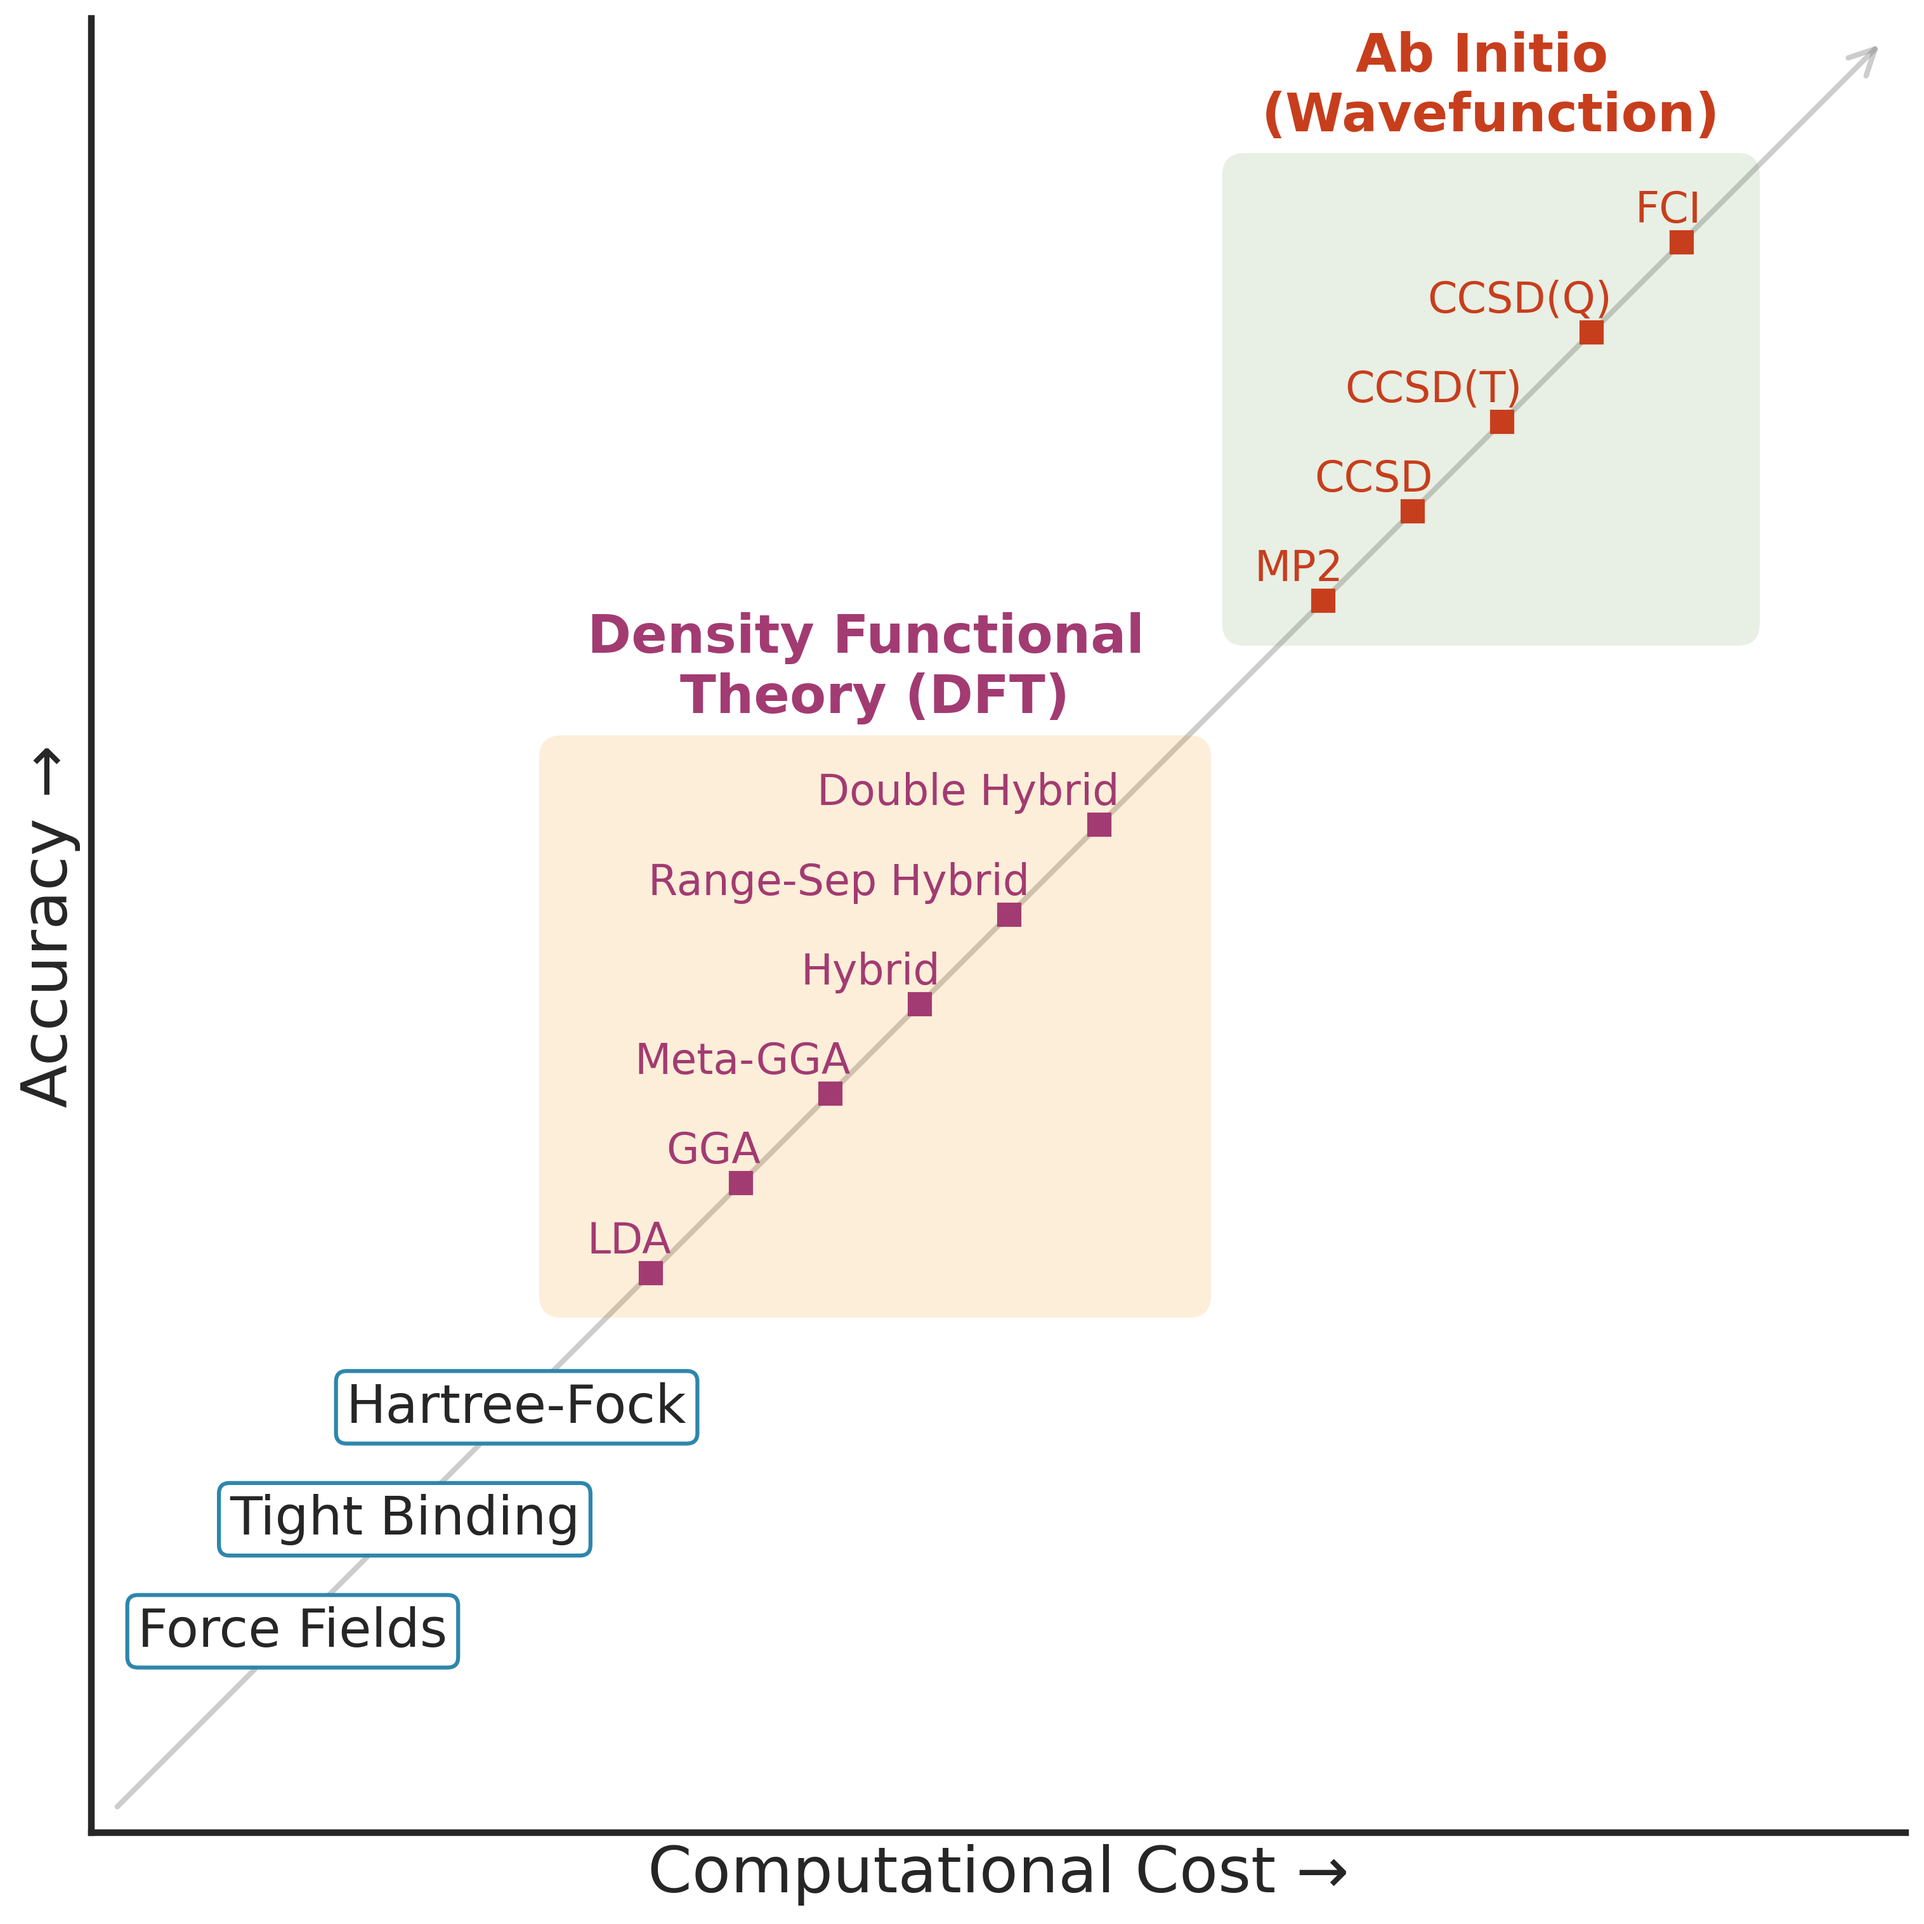
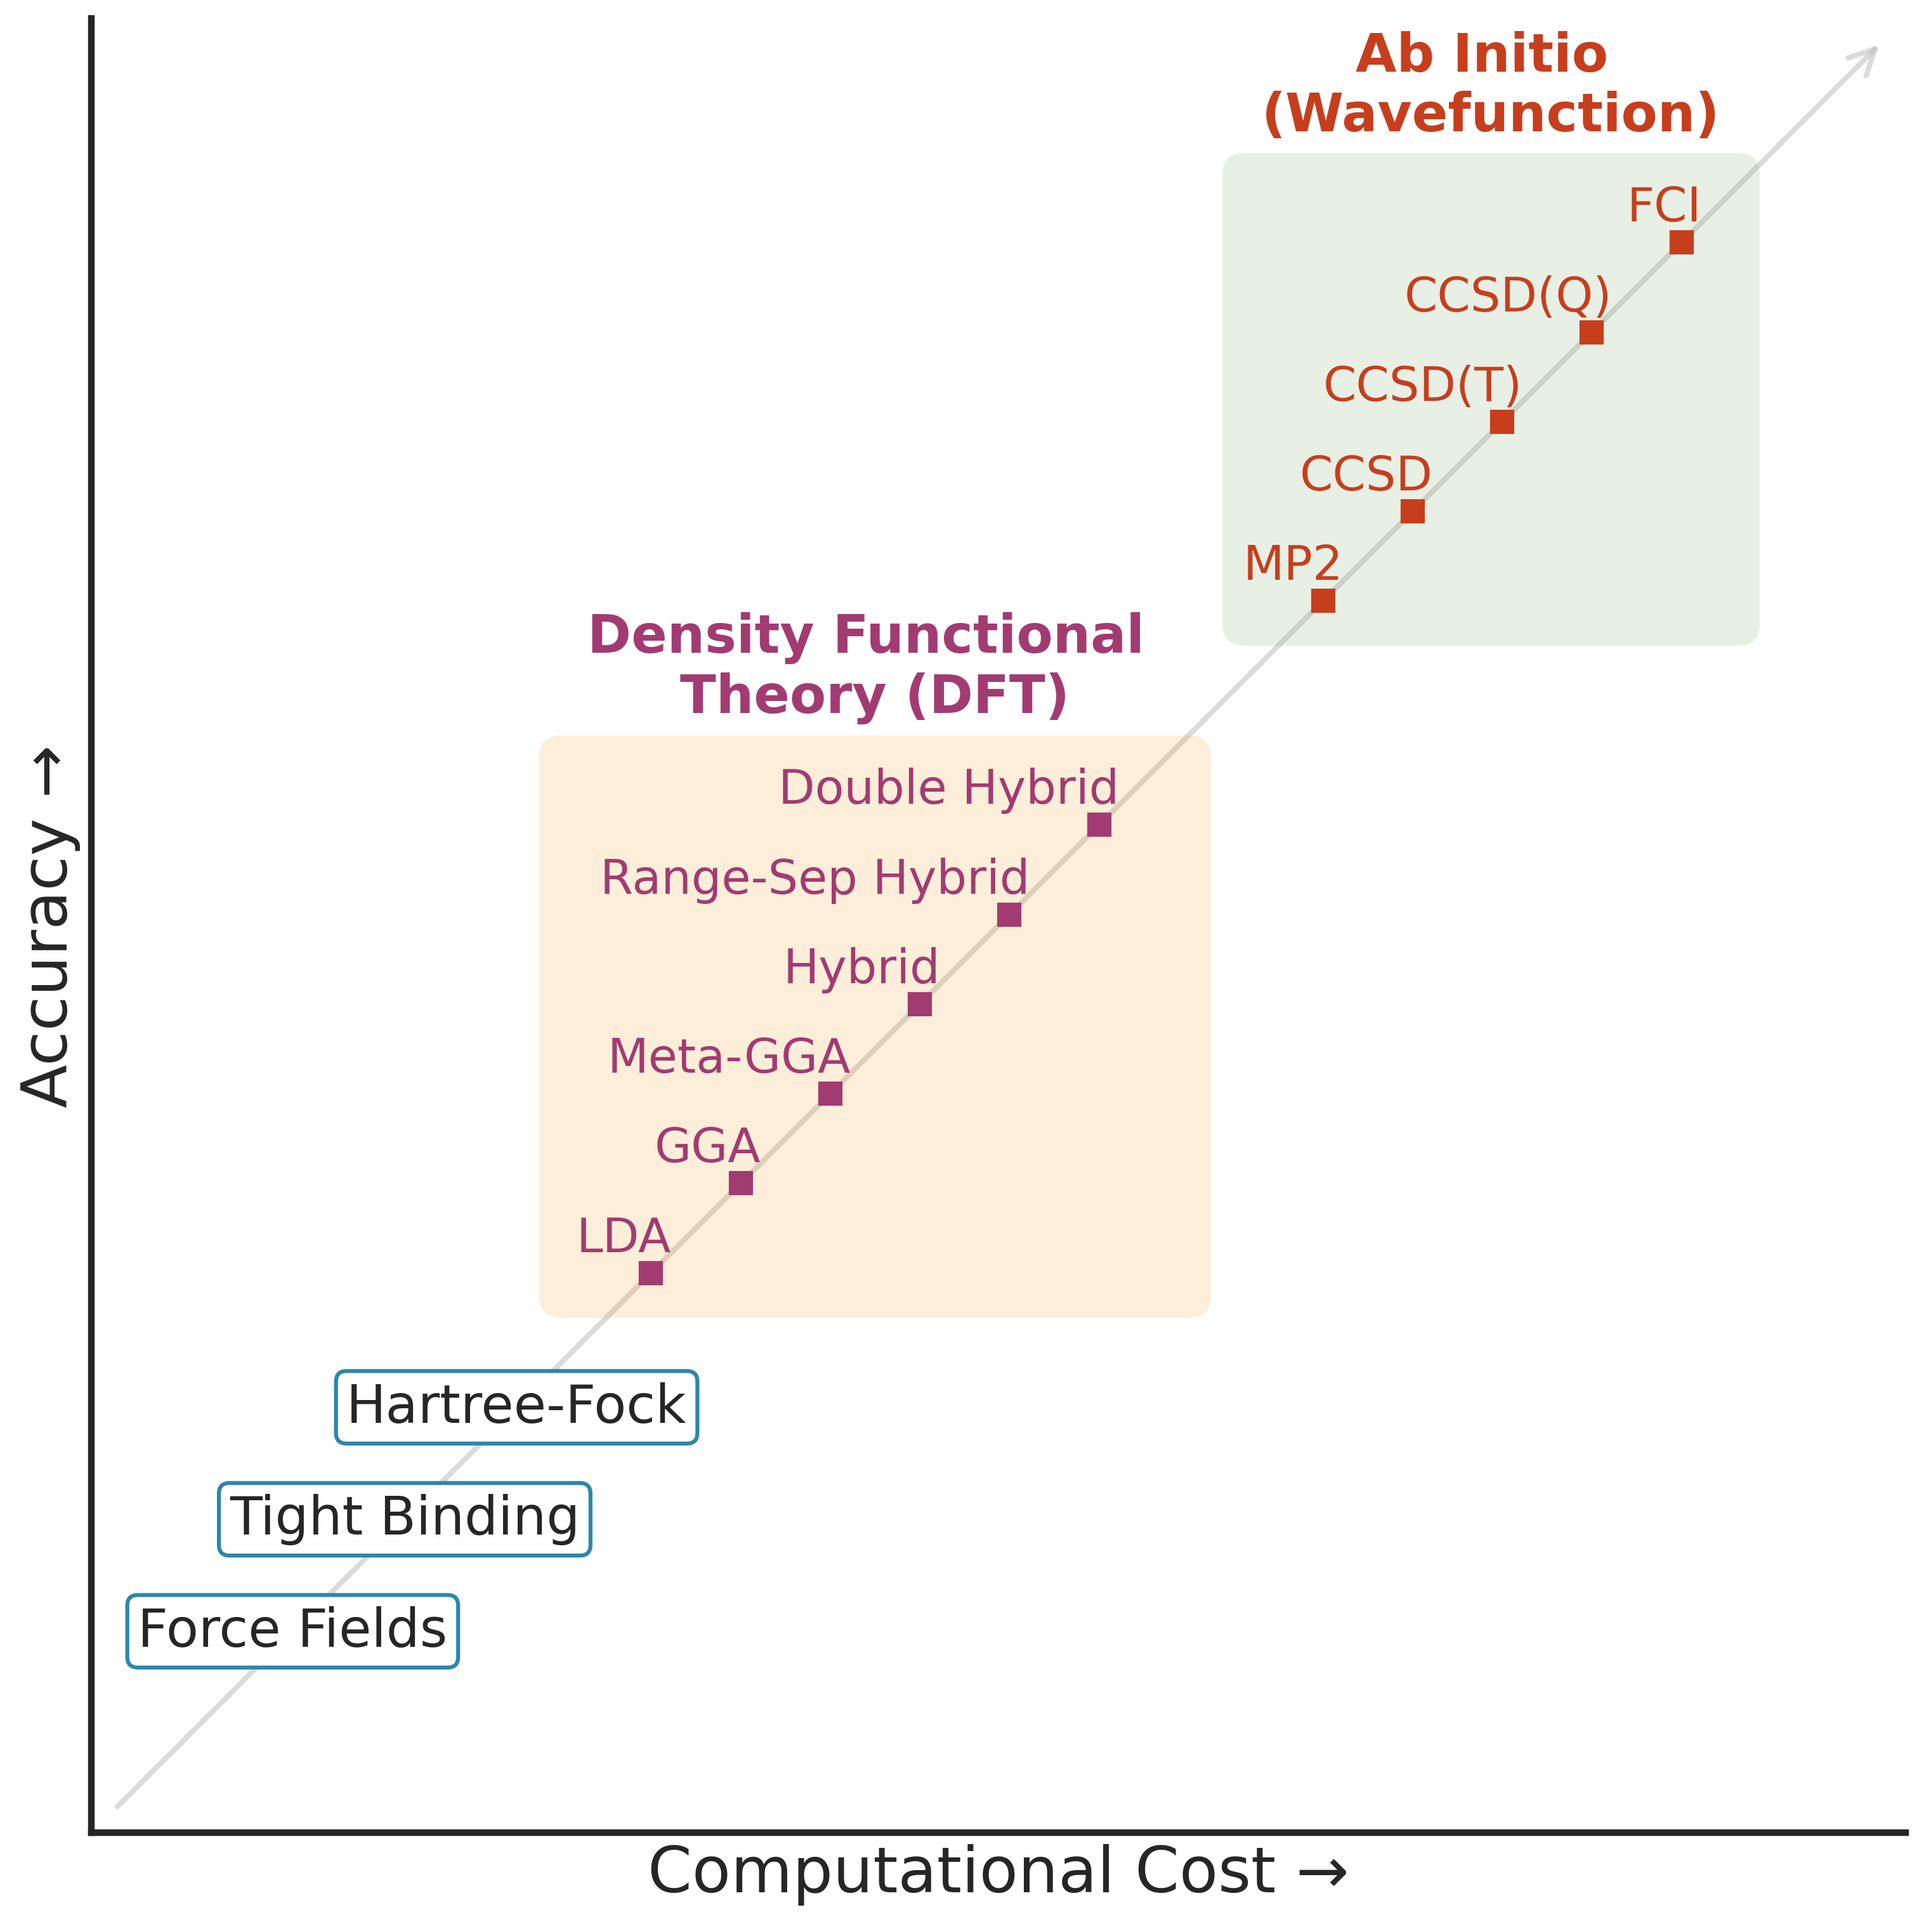
figure

diff --git a/scripts/figure_tradeoff.py b/scripts/figure_tradeoff.py
@@ -1,12 +1,12 @@
 import matplotlib.pyplot as plt
 import matplotlib.patches as patches
-from matplotlib.patches import FancyBboxPatch
+from matplotlib.patches import FancyBboxPatch, FancyArrowPatch
 import numpy as np
 import seaborn as sns
 
 
 BOX_LABEL_FONT_SIZE = 20
-BOX_CONTENT_FONT_SIZE = 16
+BOX_CONTENT_FONT_SIZE = 18
 
 # Set seaborn poster theme
 sns.set_theme(style="white", context="poster")
@@ -41,7 +41,7 @@ positions = {
 arrow_start = (0.1, 0.1)
 arrow_end = (8., 8.)
 ax.annotate('', xy=arrow_end, xytext=arrow_start,
-            arrowprops=dict(arrowstyle='->', lw=2, color='gray', alpha=0.4),
+            arrowprops=dict(arrowstyle='->', lw=2, color='#B8B8B8', alpha=0.5),
             zorder=0)
 
 # Plot main methods (outside boxes)
@@ -142,6 +142,13 @@ ax.set_yticks([])
 # Remove top and right spines
 ax.spines['top'].set_visible(False)
 ax.spines['right'].set_visible(False)
+
+# Add arrow tips to the axes using seaborn's despine with offset
+sns.despine(ax=ax, left=False, bottom=False, offset=0, trim=False)
+ax.spines['left'].set_position(('data', 0))
+ax.spines['bottom'].set_position(('data', 0))
+ax.spines['left'].set_visible(True)
+ax.spines['bottom'].set_visible(True)
 
 # Set aspect ratio to be equal
 ax.set_aspect('equal')
